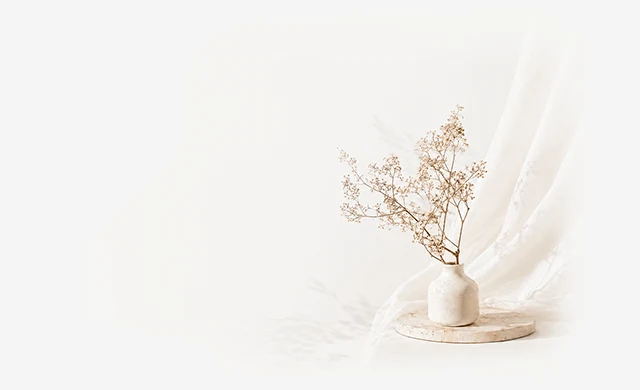
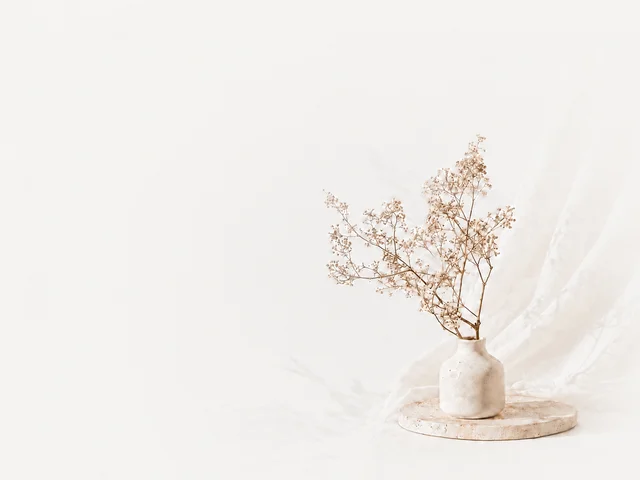
Swap homepage hero illustration to dried-flower vase photo
Resize new source photo to 640px wide (640x480), replacing the
previous illustration; bump BUILD_VERSION and the image's cache-busting
query string.

Claude-Session: https://claude.ai/code/session_01PxPckxnmRC1orDcja2NwgD

Changed region(s): [[0.5, 0.2769, 0.9688, 0.9231]]

diff --git a/index.html b/index.html
@@ -308,7 +308,7 @@
     <div class="hero-grid">
       <!-- 這張圖當背景鋪滿整個 hero-grid，文字直接疊在圖片上面（兩層：圖片在下、文字在上），
            沒有遮罩擋住插圖。 -->
-      <img class="hero-bg" src="img/hero-illustration.webp?v=2026-09-03-12" width="640" height="390" alt="" decoding="async" fetchpriority="high" aria-hidden="true">
+      <img class="hero-bg" src="img/hero-illustration.webp?v=2026-09-03-13" width="640" height="480" alt="" decoding="async" fetchpriority="high" aria-hidden="true">
       <ul class="feature-list">
         <li class="feature">
           <span class="feature-icon"><img src="img/feature-tag.webp" width="26" height="26" alt="" decoding="async"></span>
@@ -411,7 +411,7 @@
   // 自動偵測改版，避免手機瀏覽器停留在舊版內容（做法見 CLAUDE.md
   // 「Mobile browsers showing stale cached content」）。
   // 每次更新這個檔案，把版本號改成新的（例如當天日期）。
-  var BUILD_VERSION = "2026-09-03-12";
+  var BUILD_VERSION = "2026-09-03-13";
   var isCheckingUpdate = false;
   // 剛部署完的那幾分鐘，CDN 各節點還沒同步完成，這裡抓到的內容可能忽新忽舊，
   // 若每次偵測到差異就立刻重新整理，會讓頁面在測速工具（如 PageSpeed Insights）
